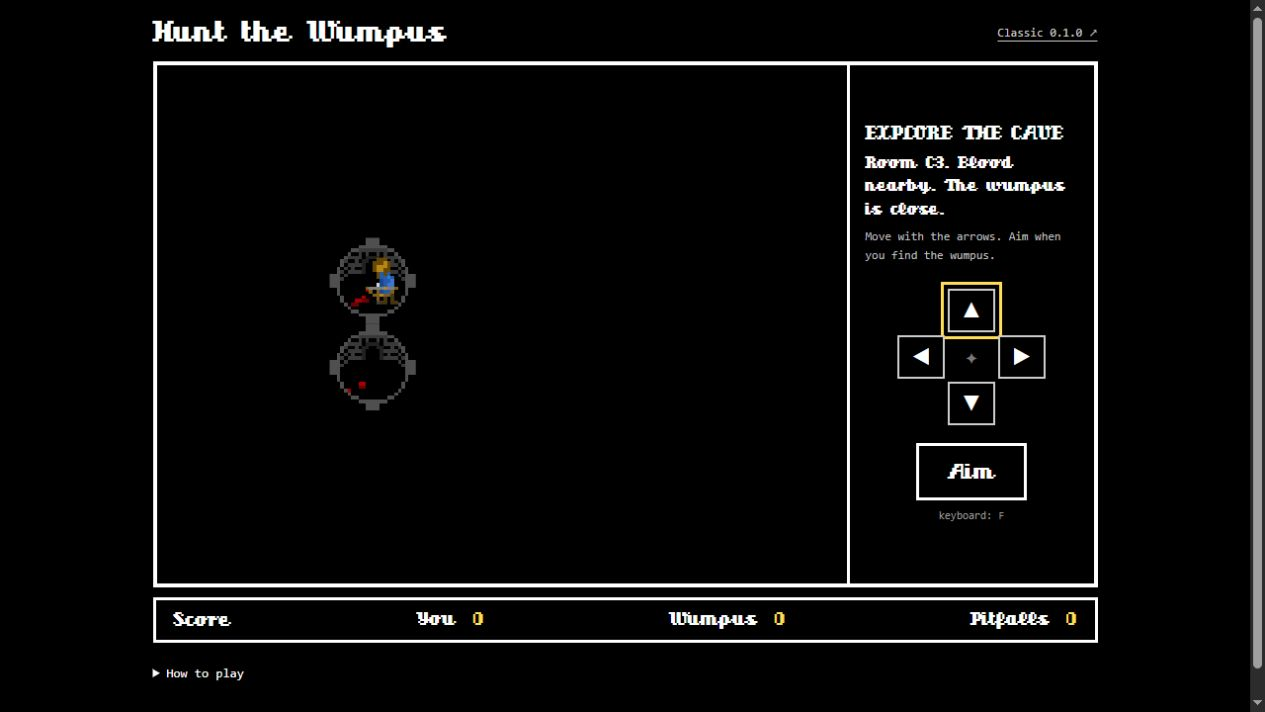
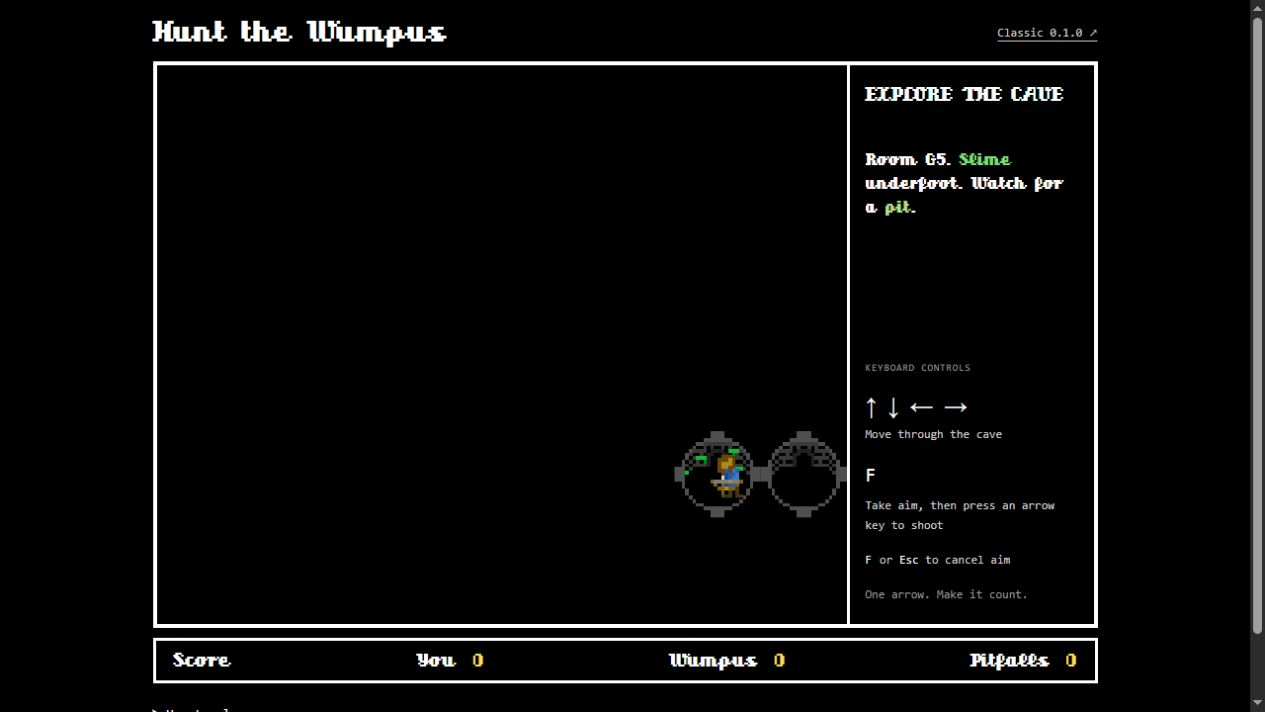
Refine Wumpus controls and stabilize colored cave clues

diff --git a/src/styles.css b/src/styles.css
@@ -120,11 +120,13 @@ wumpus-board {
 }
 .readout {
   max-width: 440px;
+  width: 100%;
 }
 .mode {
   font-size: 20px;
   color: #fff;
   margin-bottom: 8px;
+  height: 2.8em;
 }
 .mode.armed {
   color: #ffdd54;
@@ -132,19 +134,82 @@ wumpus-board {
 .game-status {
   font-size: 17px;
   line-height: 1.4;
-  min-height: 2.8em;
+  height: 11.2em;
+  overflow-y: auto;
+  scrollbar-width: thin;
+}
+.clue-blood {
+  color: #ff8585;
+}
+.clue-wumpus {
+  color: #ff5252;
+}
+.clue-slime {
+  color: #7ddd75;
+}
+.clue-pit {
+  color: #b0dc8a;
+}
+.clue-bat {
+  color: #d6b58c;
 }
 .control-hint {
+  display: none;
   font: 12px/1.6 monospace;
   color: #bdbdbd;
   margin-top: 6px;
+  height: 4.8em;
 }
 .controls {
-  display: flex;
+  display: none;
   flex-direction: column;
   align-items: center;
   gap: 18px;
   flex-shrink: 0;
+}
+.keyboard-guide {
+  width: 100%;
+  font: 12px/1.6 monospace;
+  color: #ccc;
+}
+.keyboard-guide > p + p {
+  margin-top: 16px;
+}
+.keyboard-label {
+  font-size: 10px;
+  letter-spacing: 0.08em;
+  color: #999;
+}
+.keyboard-guide span {
+  display: block;
+  margin-top: 5px;
+}
+kbd {
+  font: inherit;
+  color: #fff;
+}
+.keyboard-guide > p > kbd {
+  font-size: 20px;
+}
+.keyboard-guide .arrow-keys {
+  font:
+    24px/1.2 Arial,
+    sans-serif;
+  letter-spacing: 0.08em;
+}
+.keyboard-guide > p:nth-last-child(2) {
+  display: flex;
+  align-items: baseline;
+  gap: 8px;
+}
+.keyboard-guide > p:nth-last-child(2) > kbd {
+  font-size: 12px;
+}
+.keyboard-guide > p:nth-last-child(2) span {
+  margin-top: 0;
+}
+.one-arrow {
+  color: #999;
 }
 .direction-pad {
   display: grid;
@@ -348,10 +413,11 @@ footer {
   .mode {
     font-size: 19px;
     margin-bottom: 5px;
+    height: 1.4em;
   }
   .game-status {
     font-size: 16px;
-    min-height: 2.8em;
+    height: 8.4em;
   }
   .control-hint {
     font-size: 11px;
@@ -436,6 +502,7 @@ footer {
   }
   .game-status {
     font-size: 14px;
+    height: 7em;
   }
   .control-hint,
   .key-hint {
@@ -455,6 +522,26 @@ footer {
   .result-panel {
     position: fixed;
     width: min(500px, 90vw);
+  }
+}
+/* Phone portrait and compact landscape layouts keep the touch controls. */
+@media (max-width: 700px), (max-width: 1000px) and (max-height: 550px) {
+  .controls {
+    display: flex;
+  }
+  .keyboard-guide {
+    display: none;
+  }
+  .control-hint {
+    display: block;
+  }
+}
+@media (max-width: 1000px) and (max-height: 550px) and (min-width: 601px) {
+  .control-hint {
+    display: none;
+  }
+  .mode {
+    height: 1.4em;
   }
 }
 @media (prefers-reduced-motion: reduce) {

diff --git a/src/app/app.html b/src/app/app.html
@@ -6,7 +6,12 @@
     >
   </header>
 
-  <section class="game-screen" aria-label="Hunt the Wumpus game">
+  <section
+    #gameScreen
+    class="game-screen"
+    tabindex="-1"
+    aria-label="Hunt the Wumpus game"
+  >
     <div class="cave-frame">
       <wumpus-board
         [rooms]="state().rooms"
@@ -17,7 +22,7 @@
         <h2 id="result-title" [class.victory]="state().phase === 'won'">
           {{ result.title }}
         </h2>
-        <p>{{ result.message }}</p>
+        <p><wumpus-clue-text [text]="result.message" /></p>
         <div class="result-actions">
           <button #retry (click)="restart()">Retry</button>
           <button (click)="openMap()">View map</button>
@@ -38,13 +43,29 @@
           aria-live="polite"
           aria-atomic="true"
         >
-          {{ state().description }}
+          <wumpus-clue-text [text]="state().description" />
         </p>
         <p class="control-hint">
-          {{ state().ended ? 'View the full cave, or retry for a new hunt.' :
+          <wumpus-clue-text
+            [text]="state().ended ? 'View the full cave, or retry for a new hunt.' :
           state().aiming ? 'Choose a direction to fire. You have one arrow.' :
-          'Move with the arrows. Aim when you find the wumpus.' }}
+          'Move with the arrows. Aim when you find the wumpus.'"
+          />
         </p>
+      </div>
+      <div class="keyboard-guide" aria-label="Keyboard controls">
+        <p class="keyboard-label">KEYBOARD CONTROLS</p>
+        <p>
+          <kbd class="arrow-keys" aria-label="Arrow keys">↑ ↓ ← →</kbd
+          ><span>Move through the cave</span>
+        </p>
+        <p>
+          <kbd>F</kbd><span>Take aim, then press an arrow key to shoot</span>
+        </p>
+        <p>
+          <kbd>F</kbd><span>or <kbd>Esc</kbd> to cancel aim</span>
+        </p>
+        <p class="one-arrow">One arrow. Make it count.</p>
       </div>
       <div class="controls" role="group" aria-label="Game controls">
         <div class="direction-pad" role="group" aria-label="Direction pad">

diff --git a/src/app/app.ts b/src/app/app.ts
@@ -12,11 +12,12 @@ import {
   viewChild,
 } from "@angular/core";
 import { Board } from "./board";
+import { ClueText } from "./clue-text";
 import { Direction, Game } from "./game";
 
 @Component({
   selector: "wumpus-app",
-  imports: [Board],
+  imports: [Board, ClueText],
   templateUrl: "./app.html",
   changeDetection: ChangeDetectionStrategy.OnPush,
   host: { "(document:keydown)": "onKey($event)" },
@@ -45,6 +46,8 @@ export class App implements OnDestroy {
   private readonly retry = viewChild<ElementRef<HTMLButtonElement>>("retry");
   private readonly aim =
     viewChild.required<ElementRef<HTMLButtonElement>>("aim");
+  private readonly gameScreen =
+    viewChild.required<ElementRef<HTMLElement>>("gameScreen");
 
   constructor() {
     effect(() => {
@@ -60,9 +63,18 @@ export class App implements OnDestroy {
   restart(): void {
     this.closeMap();
     this.game.newGame();
-    afterNextRender(() => this.aim().nativeElement.focus(), {
-      injector: this.injector,
-    });
+    afterNextRender(
+      () => {
+        const aim = this.aim().nativeElement;
+        (aim.getClientRects().length
+          ? aim
+          : this.gameScreen().nativeElement
+        ).focus({ preventScroll: true });
+      },
+      {
+        injector: this.injector,
+      },
+    );
   }
   openMap(): void {
     if (!this.game.ended) return;

diff --git a/src/app/clue-text.ts b/src/app/clue-text.ts
@@ -1,0 +1,32 @@
+import {
+  ChangeDetectionStrategy,
+  Component,
+  computed,
+  input,
+} from "@angular/core";
+
+@Component({
+  selector: "wumpus-clue-text",
+  changeDetection: ChangeDetectionStrategy.OnPush,
+  template: `@for (part of parts(); track $index) {
+    <span [class]="part.tone">{{ part.text }}</span>
+  }`,
+})
+export class ClueText {
+  readonly text = input.required<string>();
+  readonly parts = computed(() =>
+    this.text()
+      .split(/\b(blood|wumpus|slime|pitfalls?|pits?|bats?)\b/gi)
+      .map((text) => {
+        const word = text.toLowerCase();
+        const tone = /^(pitfalls?|pits?)$/.test(word)
+          ? "pit"
+          : /^bats?$/.test(word)
+            ? "bat"
+            : /^(blood|wumpus|slime)$/.test(word)
+              ? word
+              : "";
+        return { text, tone: tone ? `clue-${tone}` : "" };
+      }),
+  );
+}

diff --git a/README.md b/README.md
@@ -6,7 +6,7 @@ I made this little game as a learning project, inspired by Hunt the Wumpus on th
 
 **[Play Wumpus](https://greta.github.io/wumpus/)** · **[Play Classic 0.1.0](https://greta.github.io/wumpus/classic/0.1.0/)**
 
-![Hunt the Wumpus with its original pixel art and on-screen controls](docs/wumpus.jpg)
+![Hunt the Wumpus with its original pixel art, colored clues, and keyboard guide](docs/wumpus.jpg)
 
 ## Into the cave
 
@@ -14,7 +14,7 @@ Explore the rooms and look for clues. Blood means the wumpus is close. Slime war
 
 When you think you know where the wumpus is, take aim and fire into its room. You only get one arrow.
 
-- **Move:** use the on-screen direction pad, arrow keys, or number pad (8, 2, 4, 6)
+- **Move:** use the direction pad on mobile, arrow keys, or number pad (8, 2, 4, 6)
 - **Aim:** tap Aim or press F, then choose a direction to fire
 - **Cancel aim:** tap again, press F again, or press Escape
 - **After a hunt:** use Retry or Enter for a new cave, or View map / M to see what was hiding in the dark
@@ -27,7 +27,8 @@ The cave wraps around at its edges, and tunnels bend. Your score stays with you 
 - Modern Angular and TypeScript
 - The original sprites, font, cave size, and game rules
 - A layout that fits phones in portrait or landscape
-- Large direction and Aim buttons, always on the game screen
+- Large direction and Aim buttons on mobile, with a keyboard guide on larger screens
+- A steady room-description area with red wumpus and blood clues, green slime and pit clues, and tan bat clues
 - Keyboard support, visible focus, and text descriptions of nearby clues
 - A full cave map after each hunt
 

diff --git a/docs/validation.md b/docs/validation.md
@@ -11,6 +11,7 @@ The build compiles Angular templates and TypeScript in strict mode. The Classic 
 ## Browser checks
 
 - Desktop, 390px and 320px portrait, and 844px landscape layouts
+- Desktop keyboard guide with mobile-only movement buttons, fixed-height descriptions, and colored hazard words
 - Visible controls, aim/cancel state, firing, game-over messages, session score, and retry
 - Full-map dialog, close control, Escape, and keyboard focus
 - Original sprites, font, and the playable Classic link
